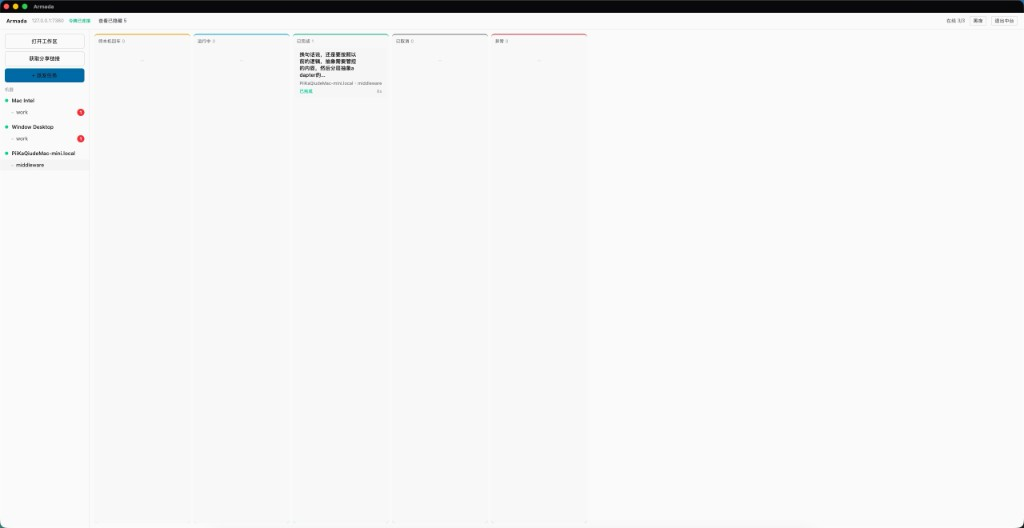
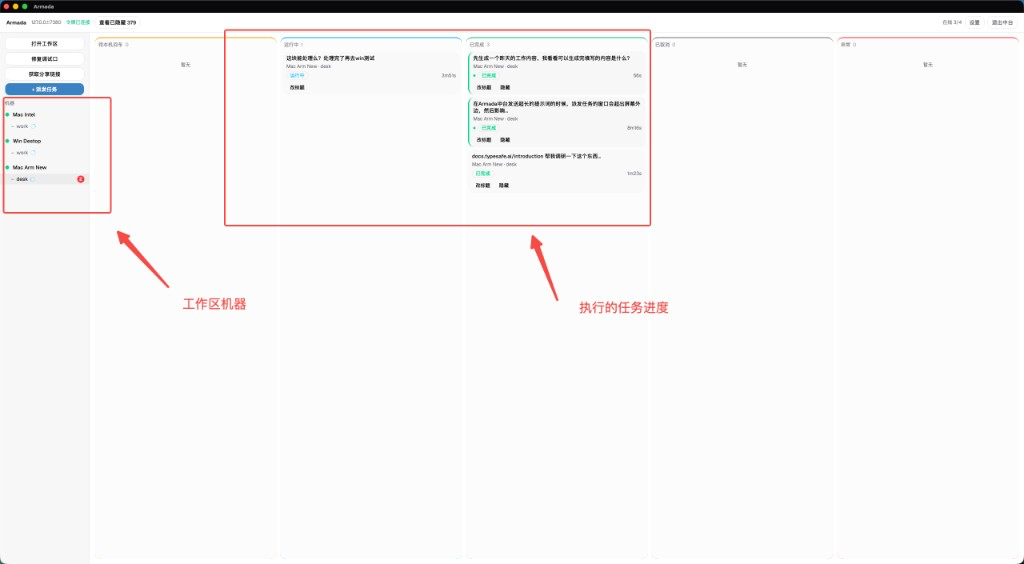
docs: refresh README screenshots and keep versions in CHANGELOG
Operator screenshots and the 0.4.31 / TF 21 / Android 0.1.8 table belong in README; add a release-docs skill so later version bumps cannot skip them.

diff --git a/README.md b/README.md
@@ -2,20 +2,45 @@
 
 局域网 Cursor **舰队指挥台**：一台中台调度多台被控 Cursor 窗口的派发、监控与取消。任务在被控机真实 IDE 对话里跑，用该机自己的 Cursor 登录态，不是绕过 IDE 打模型 API。
 
-日常用法走 **桌面应用**（创建/加入舰队、代装扩展、CDP 打开工作区）。开发联调仍可用浏览器打开看板。不在局域网时，可自建 **中转**，用 iOS App 遥控同一套中台（中台 `7380` 不暴露到公网）。
+日常用法走 **桌面应用**（创建/加入舰队、代装扩展、CDP 打开工作区）。开发联调仍可用浏览器打开看板。不在局域网时，可自建 **中转**，用 iOS / Android App 遥控同一套中台（中台 `7380` 不暴露到公网）。
 
 发送默认 **CDP 全自动**。桌面「打开工作区」会用启动器带调试口拉起 Cursor；若窗口不是这样开的，派发会降级为剪贴板预填 + 本机回车。
 
+### 当前版本（2026-09-20）
+
+| 面 | 当前发版 | 权威文件 |
+| --- | --- | --- |
+| 桌面 Armada.app | **0.1.0** | `desktop/src-tauri/tauri.conf.json` |
+| 扩展 armada-agent | **0.4.31** | `extension/package.json` |
+| iOS ArmadaRemote | **0.1.0** · TestFlight **21** | `mobile/ios` `MARKETING_VERSION` / `CURRENT_PROJECT_VERSION` |
+| Android | **0.1.8**（versionCode 9） | `mobile/android/app/build.gradle.kts` |
+
+每面发版都记进 [CHANGELOG.md](CHANGELOG.md)。能力下限（例如「续聊须 ≥ 0.4.19」）和当前发版号不是一回事：装包请用上表。
+
+### 桌面中台
+
+左侧是在线、可派发的**工作区机器**；中间五列是**任务进度**（待本机回车 / 运行中 / 已完成 / 已取消 / 异常）。点开卡片看这一轮真实会话。
+
 <p>
-  <img src="docs/assets/board.png" alt="Armada 舰队看板" width="48%" />
-  <img src="docs/assets/run-detail.png" alt="任务详情与续聊" width="48%" />
+  <img src="docs/assets/board.png" alt="舰队看板：左侧工作区机器，中间五列任务进度" width="48%" />
+  <img src="docs/assets/run-detail.png" alt="任务详情：这一轮思考、工具与回复" width="48%" />
 </p>
 
 ![在被控 Cursor 里打开的工作区](docs/assets/cursor-workspace.png)
 
+### 手机遥控器
+
+舰队页按 **机器 → 工作区**；点仓看五列任务；详情里看终态正文，可续聊、复制、标未读、隐藏。
+
+<p>
+  <img src="docs/assets/mobile-fleet.png" alt="iOS 舰队：按机器列出工作区" width="30%" />
+  <img src="docs/assets/mobile-workspace.png" alt="工作区五列任务列表" width="30%" />
+  <img src="docs/assets/mobile-run-detail.png" alt="任务详情、续聊与隐藏" width="30%" />
+</p>
+
 ## 它能做什么
 
-已具备：桌面创建/加入舰队、局域网发现、代装扩展、CDP 打开工作区、五列看板、图文派发、并行任务、中台续聊与答选择题、完成通知；可选自建中转 + iOS App 远程选仓、派发、续聊、答选择题、隐藏任务；锁屏 Ask / 终态走中转代发 APNs（需 Auth Key）。
+已具备：桌面创建/加入舰队、局域网发现、代装扩展、CDP 打开工作区、五列看板、图文派发、并行任务、中台续聊与答选择题、完成通知；可选自建中转 + iOS / Android App 远程选仓、派发、续聊、答选择题、隐藏任务；锁屏 Ask / 终态走中转代发 APNs / FCM（需密钥）。
 
 ### 舰队看板
 
@@ -53,7 +78,7 @@
 
 被控侧看到的就是普通 Cursor 窗口：文件树、Agent 对话、该机自己的账号与模型选择。派发沿用该窗口当前选中的模型。
 
-同一机器可并行多条任务（默认每机 8、每工作区 4）；整机同时只有 1 条处于派发/绑定（CDP 注入串行）。超出限额 → `429 RUN_LIMIT`。同工作区相同 prompt → `409 PROMPT_COLLISION`。关着的工作区不能派（`400 WORKSPACE_NOT_OPEN`）。扩展需 ≥ 0.4.0 才能同一窗口并行第二条；收口与续聊请用 **armada-agent ≥ 0.4.19**；**文件附件请用 ≥ 0.4.22**（Windows `@` 菜单会等 typeahead）。
+同一机器可并行多条任务（默认每机 8、每工作区 4）；整机同时只有 1 条处于派发/绑定（CDP 注入串行）。超出限额 → `429 RUN_LIMIT`。同工作区相同 prompt → `409 PROMPT_COLLISION`。关着的工作区不能派（`400 WORKSPACE_NOT_OPEN`）。扩展需 ≥ 0.4.0 才能同一窗口并行第二条；收口与续聊请用 **armada-agent ≥ 0.4.19**；**文件附件请用 ≥ 0.4.22**（Windows `@` 菜单会等 typeahead）。**当前请装 0.4.31**（空闲 Reload 闩、Ask Skip / Other）。
 
 完成、失败、需要处理选择题时，桌面会弹系统通知，浏览器会闪标题；点通知可回到那张卡。
 
@@ -300,7 +325,7 @@ npx tsup
 npx vsce package --no-dependencies    # 没有 vsce：npm i -g @vscode/vsce
 ```
 
-受控端也可 clone 后自己打包。当前包名 `armada-agent-0.4.19.vsix`。
+受控端也可 clone 后自己打包。当前包名 `armada-agent-0.4.31.vsix`。
 
 6. **日常：打开控制台**（任意电脑浏览器均可，同一令牌）
 
@@ -334,7 +359,7 @@ curl -sS http://192.168.1.10:7380/api/health
 sh hooks/install.sh
 ```
 
-4. **安装扩展** `armada-agent` ≥ 0.4.19  
+4. **安装扩展** `armada-agent` **0.4.31**（能力下限 ≥ 0.4.19）  
    Cursor → 扩展 → **Install from VSIX** → `extension/armada-agent-*.vsix`  
    （没有现成 vsix 且这台有 Node 时：`cd extension && npx tsup && npx vsce package --no-dependencies`）
 
@@ -364,7 +389,7 @@ chmod +x scripts/armada-cursor.sh
 | 要带上 Windows 的 | 从哪来 | 说明 |
 | --- | --- | --- |
 | 本仓库 | `git clone` 本仓，或把整个 `Armada` 文件夹拷过去 | 用来跑 `hooks\install.ps1` 和启动器 |
-| `armada-agent-0.4.19.vsix` | 中台 `extension\armada-agent-0.4.19.vsix`，或 Windows 自己 `npm install && npx tsup && npx --yes @vscode/vsce package --no-dependencies`（必须 ≥ 0.4.19） | 0.4.11 Reload 会把 `ext_seq` 重数到已占用号段，hub 丢掉 `stop`。0.4.16 续聊 fromEnd 会清掉 hub 签发的 `generation_id`。**0.4.17 只在 Windows 合成 stop**；**0.4.18 起全平台合成**。请不要用更旧的 vsix。 |
+| `armada-agent-0.4.31.vsix` | 中台 `extension\armada-agent-0.4.31.vsix`，或 Windows 自己 `npm install && npx tsup && npx --yes @vscode/vsce package --no-dependencies`（当前 **0.4.31**，能力下限 ≥ 0.4.19） | 0.4.11 Reload 会把 `ext_seq` 重数到已占用号段，hub 丢掉 `stop`。0.4.16 续聊 fromEnd 会清掉 hub 签发的 `generation_id`。**0.4.17 只在 Windows 合成 stop**；**0.4.18 起全平台合成**。请不要用更旧的 vsix。 |
 | 中台 IP + token | 中台 `ipconfig getifaddr en0` 和 `~/.armada/token` | token 不要换行；不要在 Windows 上新生成 |
 
 下面把 `192.168.1.10` 换成你的中台局域网 IP。所有命令都在 **PowerShell** 里执行，先 `cd` 到仓库根目录（里面能看到 `hooks` 和 `scripts` 文件夹）。
@@ -393,7 +418,7 @@ powershell -NoProfile -ExecutionPolicy Bypass -File hooks\install.ps1
 **4. 安装扩展**
 
 1. 先用图标正常打开一次 Cursor（这次还不用启动器）。
-2. 左侧扩展 → `...` → **Install from VSIX** → 选中 `armada-agent-0.4.19.vsix`。
+2. 左侧扩展 → `...` → **Install from VSIX** → 选中 `armada-agent-0.4.31.vsix`。
 3. 装完先不要关。
 
 **5. 指向中台**（`Ctrl+Shift+P` → 输入 **Armada: Configure Hub Connection**）
@@ -446,7 +471,7 @@ powershell -NoProfile -ExecutionPolicy Bypass -File scripts\armada-cursor.ps1 C:
 | `OUTBOUND_LIMIT` | **中台**：该卡待消化续发已达 8 条 |
 | `OUTBOUND_TEXT_ONLY` | **中台**：运行中续发暂只支持纯文本 |
 | `WINDOW_BUSY` | **中台**：扩展 < 0.4.0 或关了同窗并行时，该窗口已有占用项；等它结束或升级扩展。同区另有 running **不拦**旧卡续聊 |
-| 一直「待本机回车」但黄字是「绑定中」，超时后进异常 | **受控**：须装 **armada-agent ≥ 0.4.19** 并 Reload。0.4.10 扫描窗 20s 会 BIND_TIMEOUT。Windows 无 hook，绑定等 jsonl，约 **3 分钟**；macOS 约 **1 分钟** |
+| 一直「待本机回车」但黄字是「绑定中」，超时后进异常 | **受控**：须装 **armada-agent ≥ 0.4.19**（当前 **0.4.31**）并 Reload。0.4.10 扫描窗 20s 会 BIND_TIMEOUT。Windows 无 hook，绑定等 jsonl，约 **3 分钟**；macOS 约 **1 分钟** |
 | 本机对话已结束，看板仍「运行中」 | **受控**：须 ≥ 0.4.18。日志：`stop synthesized` / `adopt r-…`。Hub 须把 `status: success` 收成 completed |
 | 一直「待本机回车」且蓝字是「已预填,待本机回车」 | **受控**：Cursor 不是启动器/桌面打开的（Windows：托盘未退干净就又点了图标） |
 | 详情串了别的对话 | **受控**：扩展 ≥ 0.4.3，不要用旧 vsix |
@@ -596,6 +621,7 @@ hub 静态托管路径相对 `hub/src`，**请从仓库根**执行 `bun run dev:
 
 ## 设计文档
 
+- 发版记录：[CHANGELOG.md](CHANGELOG.md)
 - 中转 + iOS：[docs/superpowers/specs/2026-09-12-armada-relay-mobile-design.md](docs/superpowers/specs/2026-09-12-armada-relay-mobile-design.md)
 - Android 遥控器：[docs/superpowers/specs/2026-09-17-armada-android-app-design.md](docs/superpowers/specs/2026-09-17-armada-android-app-design.md)
 - App 任务隐藏：[docs/superpowers/specs/2026-09-16-armada-app-run-hide-design.md](docs/superpowers/specs/2026-09-16-armada-app-run-hide-design.md)

diff --git a/.cursor/skills/armada-release-docs/SKILL.md b/.cursor/skills/armada-release-docs/SKILL.md
@@ -1,0 +1,77 @@
+---
+name: armada-release-docs
+description: Use when bumping Armada versions, shipping vsix / overlay / TestFlight / APK, editing README screenshots or the current-version table, or writing release notes. Triggers include 发版, 升版本, changelog, CHANGELOG, README 截图, armada-agent, CURRENT_PROJECT_VERSION, versionName, tauri.conf version.
+---
+
+# Armada release docs
+
+升号、打 vsix、overlay、出 TestFlight / APK **同一轮**必须改 README 当前版本表和 `CHANGELOG.md`。只改 `package.json` 不算发完。
+
+权威在 **armada 仓**：`README.md`、`CHANGELOG.md`、本 skill。Desk 工作区只镜像。
+
+## Version sources
+
+读文件，不要猜。README 表里的号必须等于这些文件：
+
+| 面 | 文件 | 字段 |
+| --- | --- | --- |
+| 扩展 | `extension/package.json` | `version` |
+| 桌面 | `desktop/src-tauri/tauri.conf.json`（并与 `desktop/package.json`、`desktop/src-tauri/Cargo.toml` 同号） | `version` |
+| iOS | `mobile/ios/ArmadaRemote.xcodeproj/project.pbxproj` | `MARKETING_VERSION` + `CURRENT_PROJECT_VERSION`（TestFlight 号） |
+| Android | `mobile/android/app/build.gradle.kts` | `versionName` + `versionCode` |
+
+能力下限（「续聊须 ≥ 0.4.19」）**不是**当前发版。装包句、`armada-agent-*.vsix` 文件名、Windows 拷包步骤改成**当前号**。
+
+## Checklist
+
+改了上表任一字段，或操作员要去装新包时：
+
+1. `CHANGELOG.md`：有新号 → 把 **Unreleased** 搬进带日期的版本节（面 + 号 + 日期）。无新号 → 只追加 Unreleased。
+2. 该节必须有 **新增** 和/或 **修复** 列表（操作员能核对的一句话，不要贴 commit subject 堆）。需要装包步骤时加 **操作员注意**。
+3. `README.md` 顶部「当前版本」表四行都与权威文件一致；日期改成今天。
+4. README 里所有「当前包名 / 请装 / 选中 vsix」跟上当前扩展号。
+5. UI 变了操作员能看见：更新 `docs/assets/` 对应图，核对 README `<img src>`。
+   - 桌面看板 → `board.png`；详情 → `run-detail.png`；被控 Cursor → `cursor-workspace.png`
+   - 手机舰队 / 仓列表 / 详情 → `mobile-fleet.png` / `mobile-workspace.png` / `mobile-run-detail.png`
+6. 中台/App 操作员新能力：同一轮问 App 是否看得到（hub `runToSnap`）。见 `armada-hub-app-parity`。
+7. 声称桌面验收通过前走 `armada-overlay-verify`。
+
+## CHANGELOG shape
+
+```markdown
+## Unreleased
+### 新增
+- …
+### 修复
+- …
+
+## YYYY-MM-DD — 扩展 X.Y.Z · iOS TF N · Android A.B.C · 桌面 D.E.F
+### 新增
+- …
+### 修复
+- …
+### 操作员注意
+- …
+```
+
+只升一个面：标题里仍写出**此刻四行当前号**（未升的面抄 README 表），避免「只写了 vsix、App 还停在旧号」的假清单。
+
+## Rationalizations
+
+| Excuse | Reality |
+| --- | --- |
+| 「只是 patch，README 不用动」 | 操作员按 README 装 vsix。号不对就是发错包。 |
+| 「CHANGELOG 以后补」 | 以后补 = 没记。Unreleased 也要当场写。 |
+| 「commit message 已经说明了」 | commit 不是发版清单。CHANGELOG 面向装包的人。 |
+| 「截图还适用」 | 看板列、侧栏、App 五列/详情变了就必须换图。没变才可跳过第 5 步。 |
+| 「桌面还是 0.1.0 所以不用写」 | 扩展/App 升了也要改表 + CHANGELOG。桌面号照抄。 |
+| 「这是内部 chore」 | `skipped-same-version`、Reload 闩、TF 号都是操作员步骤。要写。 |
+
+## Red flags
+
+- Diff 里有 version / versionName / CURRENT_PROJECT_VERSION，却没有 `README.md` + `CHANGELOG.md`
+- README 仍写 `armada-agent-0.4.19.vsix` 而 `extension/package.json` 已经是新号
+- CHANGELOG 最新节缺修复/新增，或日期仍是上一轮
+- 发版 PR/提交自称完成，但当前版本表有一行对不上文件
+
+**以上任一：停。先补文档再 commit。**

diff --git a/CHANGELOG.md b/CHANGELOG.md
@@ -1,0 +1,74 @@
+# Changelog
+
+Armada 按 **面** 发版：扩展、桌面、iOS、Android 可以不同号。README 顶部「当前版本」表只反映此刻要装的号；本文件按日期记下每个号修了什么、新了什么。
+
+格式：[Keep a Changelog](https://keepachangelog.com/zh-CN/1.1.0/)。版本号来源见 skill `armada-release-docs`。
+
+未打新号就合进 `master` 的改动先写在 **Unreleased**；下次升号时整段搬进对应版本。
+
+---
+
+## Unreleased
+
+### 文档
+
+- README 换成现网桌面看板 / 任务详情 / iOS 舰队·仓列表·详情截图；顶部增加四行当前版本表。
+
+### 修复
+
+- 中转限制手机请求体体积；桌面看板 CSP 收到 `http://*:7380`，不再放行任意端口。
+- 看板派发框留在视口内；五列卡片标题过长截断。
+- 中转 run 快照按 `fleet` 隔离；畸形 `register` / JSON 直接 400。
+
+---
+
+## 2026-09-20 — 扩展 0.4.31 · iOS TF 21 · Android 0.1.8 · 桌面 0.1.0
+
+### 新增
+
+- Ask 卡把 Cursor **Other** 显示为选项 D，自由文本可过中台/App。
+- 手机快照带 `title`、`conversationId`；`unknown` 快照带 `finalText`。
+- 空闲 Reload：扩展 ≥ 0.4.27 按窗口在无 live run 时 Reload；**0.4.31** 把这次闩打进新 vsix 号（同号 0.4.30 会被 `skipped-same-version` 跳过）。
+
+### 修复
+
+- Ask **Skip** 点 Cursor 的 Skip 按钮，不再误点 Continue。
+- Hub 进程启动不把 leftover `online` 当成掉线，避免误杀 running。
+- Plan 点击按 `kind` 配对到卡，不按乱码 prompt；Build 选项 id 由 hub 下发。
+- 续聊 `outcome`、按 fleet 答 Ask；列表 SSE 不再带整段正文。
+- Reload 失败尝试落盘，避免同一窗口反复叠 `Reload Window`。
+- 中台重启后 leftover 在线机不当 `MACHINE_OFFLINE`。
+
+### 操作员注意
+
+Windows 被控须 **先装** `armada-agent-0.4.31.vsix` 再空闲 Reload。只 Reload 不会从 0.4.28 升上去。iOS 装 TestFlight **21**；Android **0.1.8**（versionCode 9）。
+
+---
+
+## 2026-09-20 — 扩展 0.4.29 · iOS TF 20 · Android 0.1.7
+
+### 新增
+
+- 架构债真机验收清单（Windows CDP 写入仍等双端点通，不改生产选择器）。
+
+### 修复
+
+- Ask Other 自由文本过 hub / App。
+- 按 `generation_id` 重取消；Plan inspect 配对到卡。
+- 手机 IME：SSE 快照不再重建输入框。
+
+---
+
+## 2026-09 — 更早里程碑（摘要）
+
+| 面 / 号 | 记什么 |
+| --- | --- |
+| 扩展 0.4.22 | 工作区文件附件；Windows `@` 等 typeahead |
+| 扩展 0.4.19 | 绑定扫描窗、续聊收口 |
+| 扩展 0.4.18 | 全平台合成 jsonl stop；`status: success` → completed |
+| 扩展 0.4.0 | 同窗并行第二条 |
+| 桌面 0.1.0 | 创建/加入舰队、代装 vsix、CDP 打开工作区；包装版仍不自己拨中转 |
+| iOS TF 1–19 | 中转遥控、Keychain token、前台 SSE、APNs、语音派发 |
+| Android 0.1.0–0.1.6 | 与 iOS 操作员面 parity、FCM、分组列表与系统蓝 |
+
+更早逐条提交见 `git log`。新发版不要往这张摘要表堆细节，写进上面带日期的版本节。
